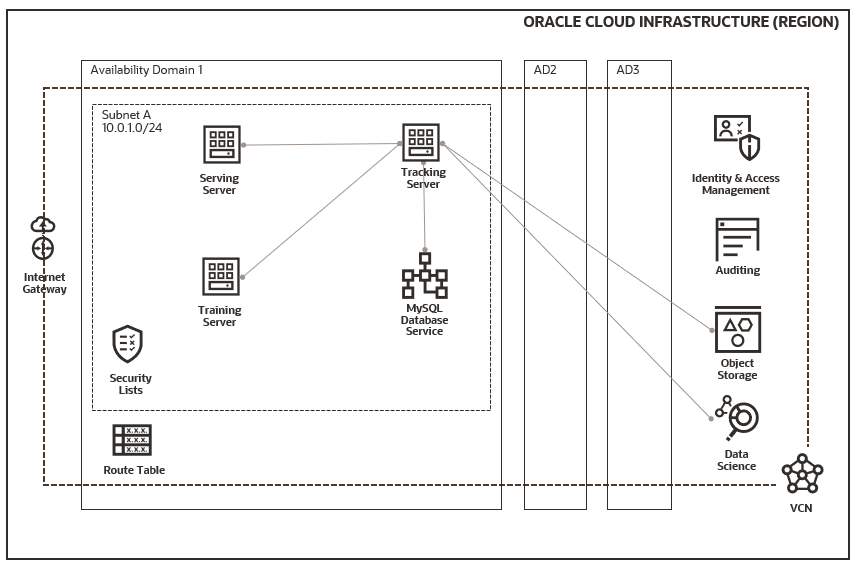
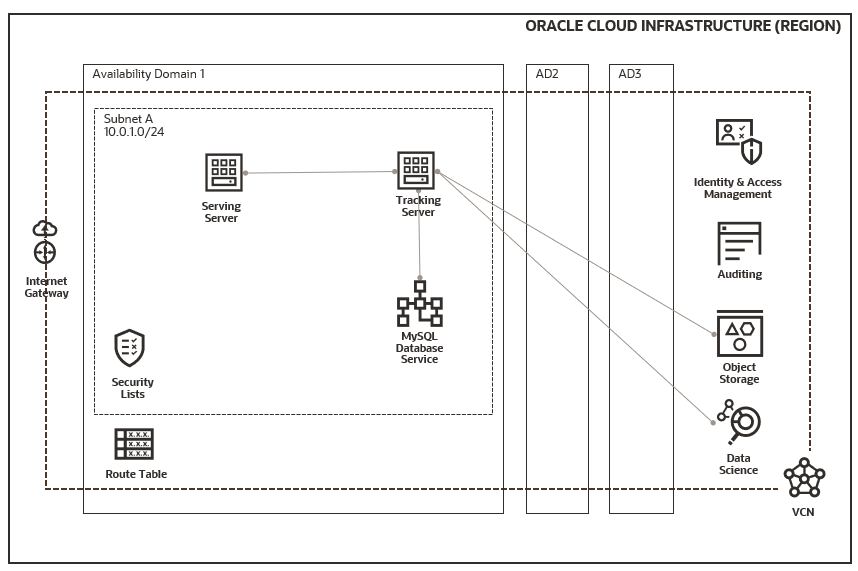
Removed training docker and vm

diff --git a/README.md b/README.md
@@ -78,10 +78,6 @@ compute_linux_instances = {
     "id" = "ocid1.instance.oc1..."
     "ip" = "..."
   }
-  "training" = {
-    "id" = "ocid1.instance.oc1..."
-    "ip" = "..."
-  }
 }
 ...
 ```
@@ -97,12 +93,9 @@ We will showcases how you can use MLflow end-to-end with MLflow sample applicati
 
 ### Training the Models
 
-1. Create a OCI Data Science [notebook session](https://docs.oracle.com/en-us/iaas/data-science/using/manage-notebook-sessions.htm) to access a JupyterLab interface using a customizable compute, storage, and network configuration. Add `MLFLOW_TRACKING_URI`, `MLFLOW_TRACKING_USERNAME`,`MLFLOW_TRACKING_PASSWORD`,`MLFLOW_S3_ENDPOINT_URL`, `AWS_ACCESS_KEY_ID` and `AWS_SECRET_ACCESS_KEY` custom environment variables to your notebook session. Use the machine learning libraries in the JupyterLab interface to complete all steps in [train.ipynb](https://github.com/mlflow/mlflow/blob/master/examples/sklearn_elasticnet_wine/train.ipynb). 
+Create a OCI Data Science [notebook session](https://docs.oracle.com/en-us/iaas/data-science/using/manage-notebook-sessions.htm) to access a JupyterLab interface using a customizable compute, storage, and network configuration. Add `MLFLOW_TRACKING_URI`, `MLFLOW_TRACKING_USERNAME`,`MLFLOW_TRACKING_PASSWORD`,`MLFLOW_S3_ENDPOINT_URL`, `AWS_ACCESS_KEY_ID` and `AWS_SECRET_ACCESS_KEY` custom environment variables to your notebook session. Use the machine learning libraries () the JupyterLab interface to complete all steps in [train.ipynb](https://github.com/mlflow/mlflow/blob/master/examples/sklearn_elasticnet_wine/train.ipynb). 
 
-2. Run [train.py](https://github.com/mlflow/mlflow/blob/master/examples/sklearn_elasticnet_wine/train.py) inside the training docker. Try out some different values for alpha and l1_ratio by passing them as arguments:
-```bash
-python train.py <alpha> <l1_ratio>
-```
+You need to install mlflow and boto3 libraries if not preinstalled in your conda environment in your notebook session.
 
 ### Comparing the Models
 
